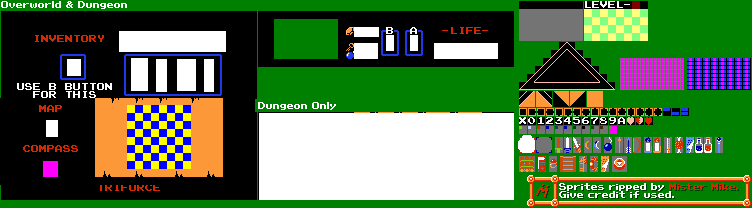
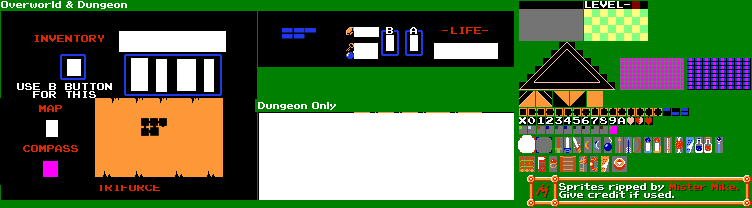
edited hud pictures

Changed region(s): [[0.1529, 0.4904, 0.2753, 0.8365], [0.367, 0.0865, 0.4588, 0.2885]]

diff --git a/cse3902/RoomClasses/Minimap.cs b/cse3902/RoomClasses/Minimap.cs
@@ -1,0 +1,25 @@
+using System;
+using Microsoft.Xna.Framework.Graphics;
+
+namespace cse3902.RoomClasses
+{
+	public class Minimap
+	{
+
+        private const int MINIMAP_WIDTH = 64;
+        private const int MINIMAP_HEIGHT = 44;
+        private const float MINIMAP_SCALE_FACTOR = 0.25f;
+        private Texture2D minimapTexture;
+        GameContent content;
+
+        public Minimap(GameContent content)
+		{
+
+            minimapTexture = content.hud;
+           
+        }
+
+
+	}
+}
+
